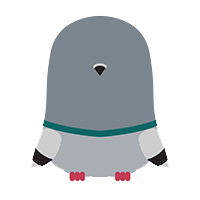
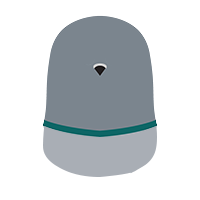
Ami Animation and bg image change

diff --git a/assets/styles/components/_jumbotron.scss b/assets/styles/components/_jumbotron.scss
@@ -39,7 +39,7 @@
 
 // THEME SWITCH
 .theme2 .jumbotron {
-	background: url(../images/school.png) fixed;
+	background: url(../images/school.png) fixed center;
 
 	h1 {
 		color: lighten($body-color, 20%);
@@ -51,7 +51,7 @@
 
 // THEME SWITCH
 .theme3 .jumbotron {
-	background: url(../images/bg-abstract.jpg) fixed;
+	background: url(../images/bg-abstract.jpg) fixed center;
 	
 	p {
 		color: $white;
@@ -191,6 +191,7 @@
 .ami-intro__cover-img {
 	transition: transform $transition-time $transition-type;
 	transform: translate(0, 100%);
+	height: 75px;
 
 	// PSEUDO
 	&::before,
@@ -202,7 +203,8 @@
 		height: 4px;
 		background-color: $black;
 		left: 50%;
-		top: 21px;		
+		top: 21px;
+		z-index: 10;		
 	}
 
 	&::before {
@@ -215,7 +217,7 @@
 
 	// TRANSITION
 	.sps--abv & {
-		transform: translate(0, 5%);
+		transform: translate(0, 3%);
 
 		&::before,
 		&::after {
@@ -243,6 +245,141 @@
     height: 4px;
   }
 }
+
+
+
+// PIECES OF AMI
+.ami-body,
+.ami-wing-l,
+.ami-wing-r,
+.ami-foot-l,
+.ami-foot-r {
+	position: absolute;
+}
+
+.ami-body {
+	left: 3px;
+	top: 2px;
+	max-width: 70px;
+}
+
+.ami-wing-l,
+.ami-wing-r {
+	left: 12px;
+	top: 48px;
+	max-width: 12px;
+}
+
+.ami-wing-l {
+	// TRANSITION
+	.sps--abv & {
+		animation: wing-flap-l $transition-time * 8 ease-in-out infinite alternate;
+		transform-origin: top right;
+	}
+}
+
+.ami-wing-r {
+	right: 12px;
+	left: inherit;
+
+	// TRANSITION
+	.sps--abv & {
+		animation: wing-flap-r $transition-time * 8 ease-in-out infinite alternate;
+		transform-origin: top left;
+	}
+}
+
+.ami-foot-l,
+.ami-foot-r {
+	bottom: 10px;
+	max-width: 7px;
+	left: 50%;
+	margin-left: -12px;
+}
+
+
+.ami-foot-l {
+	// TRANSITION
+	.sps--abv & {
+		animation: foot-stomp $transition-time * 5 ease-in-out infinite alternate;
+	}
+}
+
+.ami-foot-r {
+	margin-left: 4px;
+
+	// TRANSITION
+	.sps--abv & {
+		animation: foot-stomp $transition-time * 5 ease-in-out infinite alternate;
+		animation-delay: $transition-time;
+	}
+}
+
+
+
+// FLAP ANIMATION (L)
+@keyframes wing-flap-l {
+  0% {
+    transform: rotate(0deg);
+  }
+  10% {
+    transform: rotate(22deg);
+  }
+  13% {
+    transform: rotate(15deg);
+  }
+  18% {
+    transform: rotate(22deg);
+  }
+  25% {
+  	transform: rotate(0deg);
+  }
+  100% {
+    transform: rotate(0deg);
+  }
+}
+
+// FLAP ANIMATION (R)
+@keyframes wing-flap-r {
+  0% {
+    transform: rotate(0deg);
+  }
+  10% {
+    transform: rotate(-22deg);
+  }
+  13% {
+    transform: rotate(-15deg);
+  }
+  18% {
+    transform: rotate(-22deg);
+  }
+  25% {
+  	transform: rotate(0deg);
+  }
+  100% {
+    transform: rotate(0deg);
+  }
+}
+
+// STOMP ANIMATION
+@keyframes foot-stomp {
+  0% {
+    transform: translate(0, 0);
+  }
+  25% {
+  	transform: translate(0, 0);
+  }
+  35% {
+  	transform: translate(0, -2px);
+  }
+  45% {
+  	transform: translate(0, 0);
+  }
+  100% {
+    transform: translate(0, 0);
+  }
+}
+
 
 
 

diff --git a/assets/styles/layouts/_pages.scss b/assets/styles/layouts/_pages.scss
@@ -13,11 +13,6 @@
 
 		// RESPONSIVE DOWN
 		@include media-breakpoint-up(md) {
-			left: -30px;
-			right: -30px;
-		}
-
-		@include media-breakpoint-up(lg) {
 			left: -20px;
 			right: -20px;
 		}
@@ -35,17 +30,25 @@
 	display: flex;
 	flex-direction: column;
 	align-items: center;
-	justify-content: center;
-	box-shadow: 0 0 0 rgba(0,172,171,0);
-	width: 300px;
-	height: 300px;
-	border-radius: 100%;
+	justify-content: center;	
 	margin: 1rem auto;
 	padding: 2rem 20px;
 
-	&:hover {
-		box-shadow: 0 0 0 25px rgba(0,172,171,0.75);
+	// RESPONSIVE UP
+	@include media-breakpoint-up(md) {
+		box-shadow: 0 0 0 rgba(0,172,171,0);
+		width: 300px;
+		height: 300px;
+		border-radius: 100%;
+
+		&:hover {
+			box-shadow: 0 0 0 25px rgba(0,172,171,0.75);
+		}
 	}
+
+
+
+	
 
 	&:hover button {
 		background: $brand-primary;
@@ -158,12 +161,10 @@
 	padding-bottom: 5rem;
 	padding-left: $grid-gutter-width-base / 2;
 	padding-right: $grid-gutter-width-base / 2;
+}
 
-	// RESPONSIVE UP
-	@include media-breakpoint-up(md) {
-		padding-left: $grid-gutter-width-base / 2;
-		padding-right: $grid-gutter-width-base / 2;
-	}
+.sticky-content__nav-col {
+	padding-bottom: 3rem;
 }
 
 .sticky-content__text-col hr {

diff --git a/assets/styles/components/_breadcrumb.scss b/assets/styles/components/_breadcrumb.scss
@@ -4,6 +4,11 @@
     position: relative;
     text-align: center;
     width: 100%;
+    top: 20px;
+
+    @include media-breakpoint-up(lg) {
+    	top: 5px;
+    }
 
     &::before {
     	content: "";
@@ -11,7 +16,10 @@
     	left: 0;
     	height: 13px;
     	width: 0;
-    	border-left: 1px dotted $brand-primary;
+    	
+    	@include media-breakpoint-up(xl) {
+    		border-left: 1px dotted $brand-primary;
+    	}
     }
 
     .page--home & {
@@ -28,19 +36,20 @@
 	color: lighten($body-color, 40%);
 	display: inline-block;
     float: none;
-    max-width: 33%;
+    max-width: 32%;
     white-space: nowrap;
 	overflow: hidden;
 	text-overflow: ellipsis;
 	margin-right: 15px;
 	padding-right: 0;
+	vertical-align: top;
 
 	&:before {
 		display: none !important;
 		padding: 0 !important;
 	}
 
-    @include media-breakpoint-up(md) {
+    @include media-breakpoint-up(lg) {
     	float: left;
     }
 

diff --git a/assets/styles/common/_global.scss b/assets/styles/common/_global.scss
@@ -59,7 +59,7 @@ body {
 .main-page,
 #main-footer {
     transition: transform $transition-time $transition-type, opacity $transition-time ease-out;
-    transform-delay: $transition-time;
+    transition-delay: $transition-time;
 	position: relative;
 	z-index: 2;
     opacity: 0;

diff --git a/assets/styles/components/_cards.scss b/assets/styles/components/_cards.scss
@@ -170,7 +170,7 @@
 			left: 50%;
 			margin-left: -150px;
 			top: -167%;
-			border: 1px solid rgba(0,0,0,0.075);
+			border: 1px solid rgba(0,0,0,0.05);
 
 		}
 		@include media-breakpoint-up(lg) {

diff --git a/index.php b/index.php
@@ -24,7 +24,11 @@
                 </div>
                 <div class="ami-intro">
                   <div class="ami-intro__cover-img">
-                    <img src="<?php echo $root; ?>/dist/images/ami-small.png" class="img-fluid" alt="Ami" />
+                    <img src="<?php echo $root; ?>/dist/images/ami-small.png" class="ami-body img-fluid" alt="Ami" />
+                    <img src="<?php echo $root; ?>/dist/images/ami-small-wing-l.png" class="ami-wing-l img-fluid" alt="Ami" />
+                    <img src="<?php echo $root; ?>/dist/images/ami-small-wing-r.png" class="ami-wing-r img-fluid" alt="Ami" />
+                    <img src="<?php echo $root; ?>/dist/images/ami-small-foot.png" class="ami-foot-l img-fluid" alt="Ami" />
+                    <img src="<?php echo $root; ?>/dist/images/ami-small-foot.png" class="ami-foot-r img-fluid" alt="Ami" />
                   </div>
 
                 </div>

diff --git a/assets/includes/header.inc.php b/assets/includes/header.inc.php
@@ -2,7 +2,7 @@
 
 // NOTE: You'll need to change this on the live server
 
-$root = "http://localhost/customer.io-learn/learn-task";
+$root = "http://localhost/customer.io-learn";
 
 ?>
 
@@ -13,7 +13,7 @@ $root = "http://localhost/customer.io-learn/learn-task";
 <head>
   <meta charset="utf-8">
   <meta http-equiv="x-ua-compatible" content="ie=edge">
-  <meta name="viewport" content="width=device-width, initial-scale=1">
+  <meta name="viewport" content="width=device-width, initial-scale=1, minimum-scale=1">
   <link rel="icon" type="image/png" href="<?php echo $root; ?>/dist/images/favicon-32x32.png" sizes="32x32">
   <link rel="icon" type="image/png" href="<?php echo $root; ?>/dist/images/favicon-16x16.png" sizes="16x16">
   <link rel="stylesheet" href="<?php echo $root; ?>/dist/styles/main.css" type="text/css" media="all">
